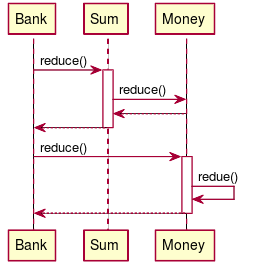
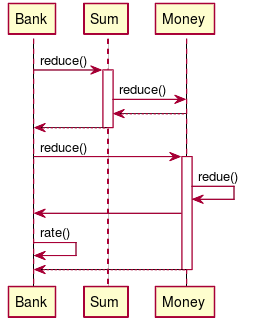
第１４章 学習用テストと回帰テスト Step8

diff --git a/src/main/java/tdd/money/Money.java b/src/main/java/tdd/money/Money.java
@@ -14,7 +14,7 @@ class Money implements Expression {
         return new Sum(this, addend);
     }
     public Money reduce(Bank bank, String to) {
-        int rate = (currency.equals("CHF") && to.equals("USD")) ? 2 : 1;
+        int rate = bank.rate(currency, to);
         return new Money(amount / rate, to);
     }
     String currency() {

diff --git a/docs/TDD.md b/docs/TDD.md
@@ -48,11 +48,11 @@
 ### クラス図
   
 
-![](./assets/0285dfa24ee25b18e00bb369b57da6820.png?0.05216455028946587)  
+![](./assets/0285dfa24ee25b18e00bb369b57da6820.png?0.2669775956128191)  
 ### シーケンス図
   
 
-![](./assets/0285dfa24ee25b18e00bb369b57da6821.png?0.6189289308782167)  
+![](./assets/0285dfa24ee25b18e00bb369b57da6821.png?0.368992106655994)  
   
 ## コード
   
@@ -139,7 +139,7 @@ class Money implements Expression {
         return new Sum(this, addend);
     }
     public Money reduce(Bank bank, String to) {
-        int rate = (currency.equals("CHF") && to.equals("USD")) ? 2 : 1;
+        int rate = bank.rate(currency, to);
         return new Money(amount / rate, to);
     }
     String currency() {

diff --git a/docs/src/TDD.md b/docs/src/TDD.md
@@ -93,6 +93,8 @@ deactivate Sum
 Bank -> Money :reduce()  
 activate Money
   Money -> Money :redue()
+  Money -> Bank
+  Bank -> Bank :rate()
   Money --> Bank
 deactivate Money
 ```
